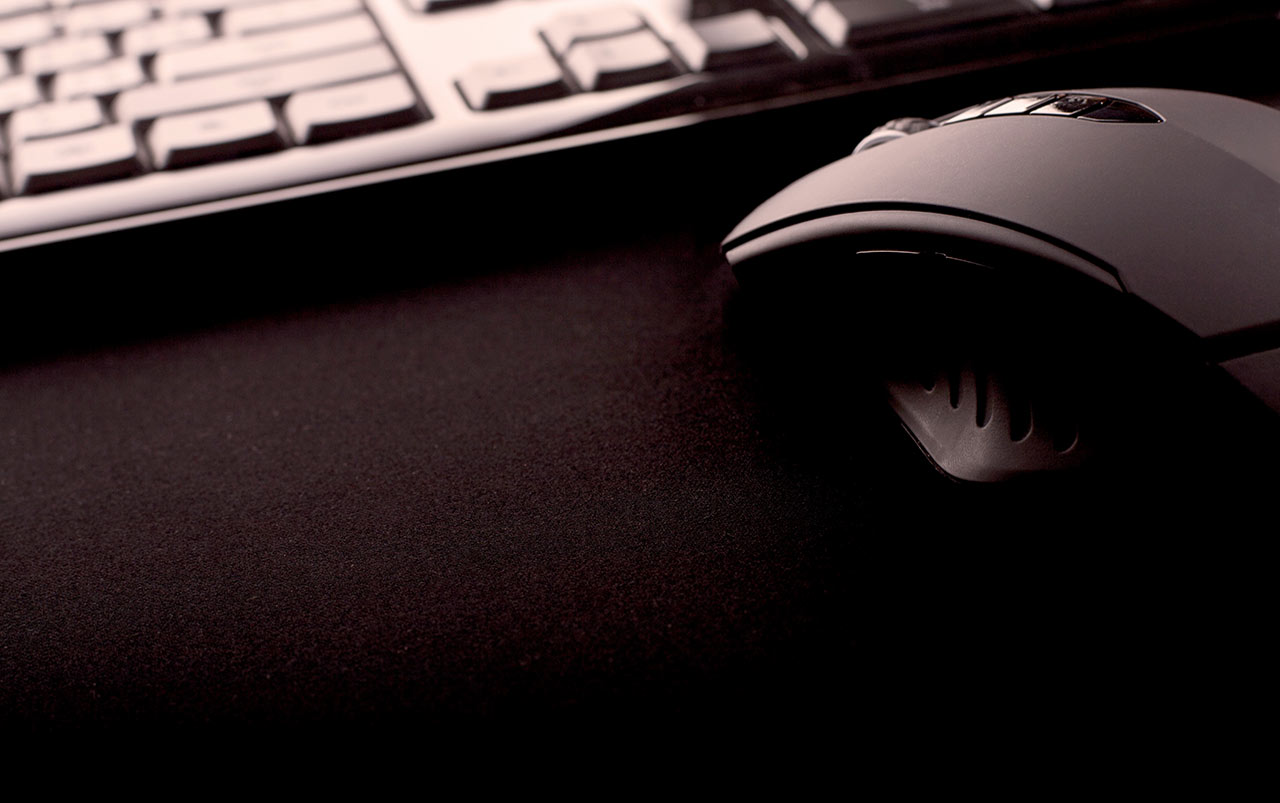
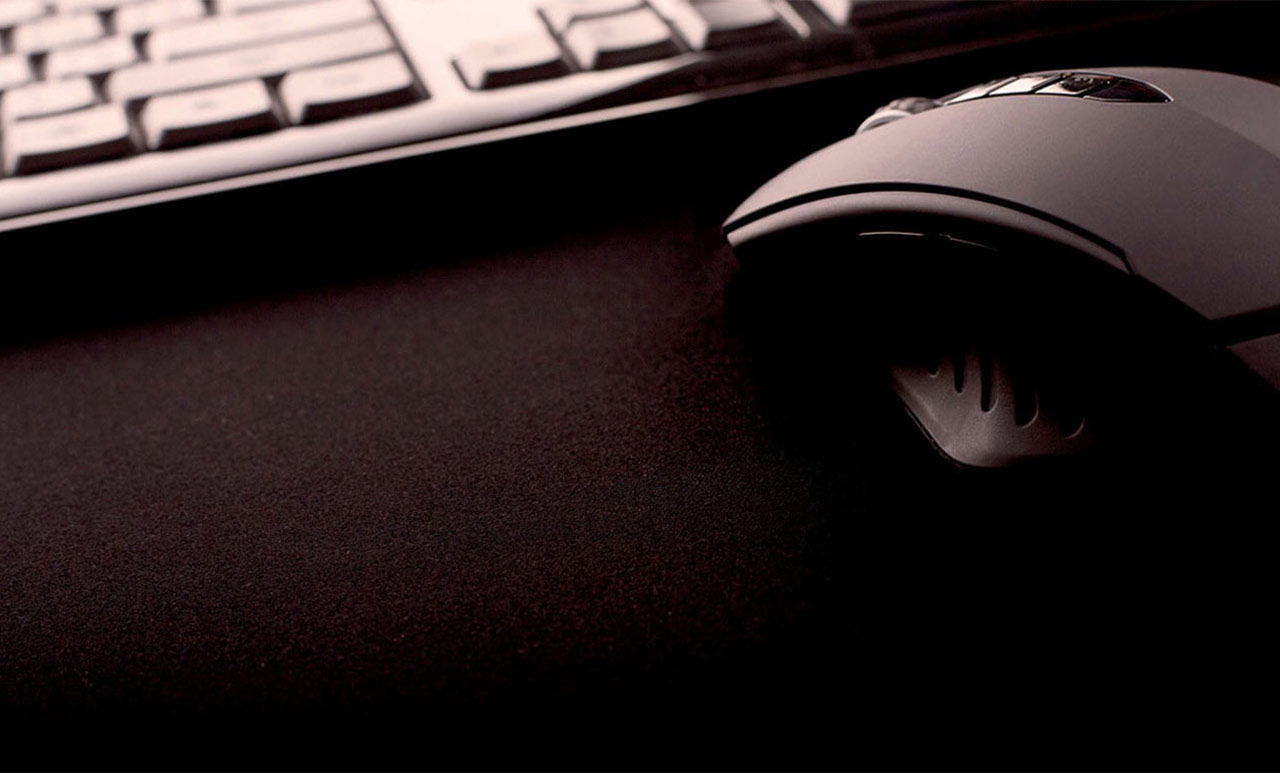
hero-img-update
Hero image was off compared to the gradient. Made changes to that they
line up again.

diff --git a/css/main.css b/css/main.css
@@ -45,7 +45,9 @@
   @media only screen and (min-width: 40.063em) {
     .name {
       float: left; } }
-/*===HERO===*/
+/*============================================================================================================
+	Matt's Hero
+============================================================================================================*/
 .hero {
   background: url(../img/hero-keyboard-lg.jpg) no-repeat center top;/*===HERO IMAGE===*/
   background-size: 100rem;
@@ -73,8 +75,8 @@
   .hero p {
     color: #fff;
     line-height: 1.75em;
-	font-family: Museo;
-	font-weight:200;
+	font-family: 1.75rem Museo;
+	font-weight: lighter;
     text-align: center;
     margin-bottom: 2rem; }
 	    @media only screen and (max-width: 70.063em) {
@@ -99,7 +101,7 @@
 		  .hero:before {
 			      content: '';
     				position: absolute;
-    				top: 8.3rem;
+    				top: 8.7rem;
     				right: 0;
     				bottom: -7.75rem;
     				left: 0;
